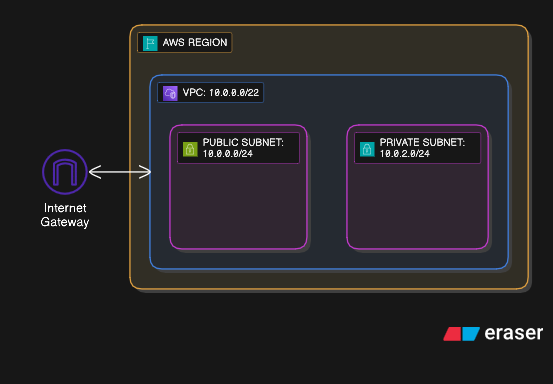
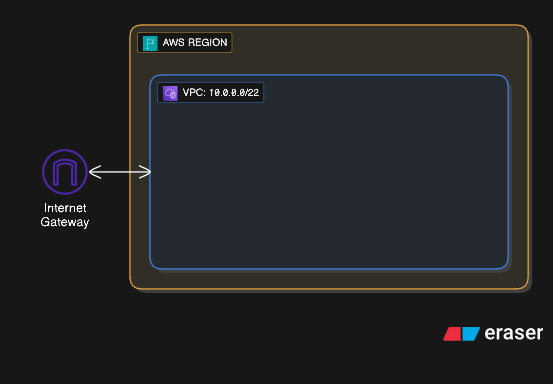
refactor: updated lab order

Changed region(s): [[0.6148, 0.3125, 0.8915, 0.6562], [0.3074, 0.3125, 0.5841, 0.6562]]

diff --git a/labs/lab12.md b/labs/lab12.md
@@ -1,23 +1,15 @@
-## LAB 12: Create Subnet
+## LAB 12: Internet Gateway
 
-![subnet-diagram](../assets/subnet.png)
+![igw-diagram](../assets/igw.png)
 
-### Langkah 1: Buat Public Subnet
+### Langkah 1: Buat Internet Gateway
 
-1. Pergi ke "Subnet" dalam dashboard VPC
-2. Click "Create Subnet" dan isikan nama: `public-subnet`
-3. Pastikan pilih VPC yang anda buat sebelum ni (bukan VPC default)
-4. Pilih Availability Zone (ap-southeast-1a)
-5. Isikan IPv4 CIDR block dengan nilai ini: `10.0.0.0/24`
+1. Pergi ke "Internet Gateway" dalam dashboard VPC
+2. Click "Create internet gateway" dan isikan nama: `my-igw`
+3. Click "Attach VPC" dan pilih VPC anda
 
-### Langkah 2: Buat Private Subnet
-
-1. Click "Create Subnet" dan isikan nama: `private-subnet`
-2. Pastikan pilih VPC yang anda buat sebelum ni (bukan VPC default)
-3. Pilih Availability Zone (ap-southeast-1a)
-4. Isikan IPv4 CIDR block dengan nilai ini: `10.0.2.0/24`
-
-### Langkah 3: Sahkan di VPC Resource Map
+### Langkah 2: Sahkan di VPC Resource Map
 
 1. Click "Your VPC" dan pilih VPC anda: `my-vpc`
-2. Rujuk "Resource Map" dan pastikan ia mengandungi dua subnet anda
+2. Rujuk "Resource Map" dan lihat jika ada sambungan ke Internet Gateway
+3. Anda akan dapati tiada kerana kita belum setup Route Table

diff --git a/labs/lab14.md b/labs/lab14.md
@@ -1,0 +1,23 @@
+## LAB 14: Create Subnet
+
+![subnet-diagram](../assets/subnet.png)
+
+### Langkah 1: Buat Public Subnet
+
+1. Pergi ke "Subnet" dalam dashboard VPC
+2. Click "Create Subnet" dan isikan nama: `public-subnet`
+3. Pastikan pilih VPC yang anda buat sebelum ni (bukan VPC default)
+4. Pilih Availability Zone (ap-southeast-1a)
+5. Isikan IPv4 CIDR block dengan nilai ini: `10.0.0.0/24`
+
+### Langkah 2: Buat Private Subnet
+
+1. Click "Create Subnet" dan isikan nama: `private-subnet`
+2. Pastikan pilih VPC yang anda buat sebelum ni (bukan VPC default)
+3. Pilih Availability Zone (ap-southeast-1a)
+4. Isikan IPv4 CIDR block dengan nilai ini: `10.0.2.0/24`
+
+### Langkah 3: Sahkan di VPC Resource Map
+
+1. Click "Your VPC" dan pilih VPC anda: `my-vpc`
+2. Rujuk "Resource Map" dan pastikan ia mengandungi dua subnet anda

diff --git a/labs/lab13.md b/labs/lab13.md
@@ -1,0 +1,16 @@
+## LAB 13: Route Table
+
+![rt-diagram](../assets/rt.png)
+
+### Langkah 1: Edit Route
+
+1. Click "Route Table" anda dalam "Resource Map" VPC: `my-vpc`
+2. Click "Edit Route" dan "Add Route"
+3. Letakkan destination: `0.0.0.0/0` dan target `Internet Gateway`
+4. Pilih `my-igw` sebagai target dan Click "Save changes"
+
+### Langkah 2: Sahkan di VPC Resource Map
+
+1. Click "Your VPC" dan pilih VPC anda: `my-vpc`
+2. Rujuk "Resource Map" dan lihat jika ada sambungan ke Internet Gateway
+3. Anda akan dapati tiada kerana kita belum setup Route Table
